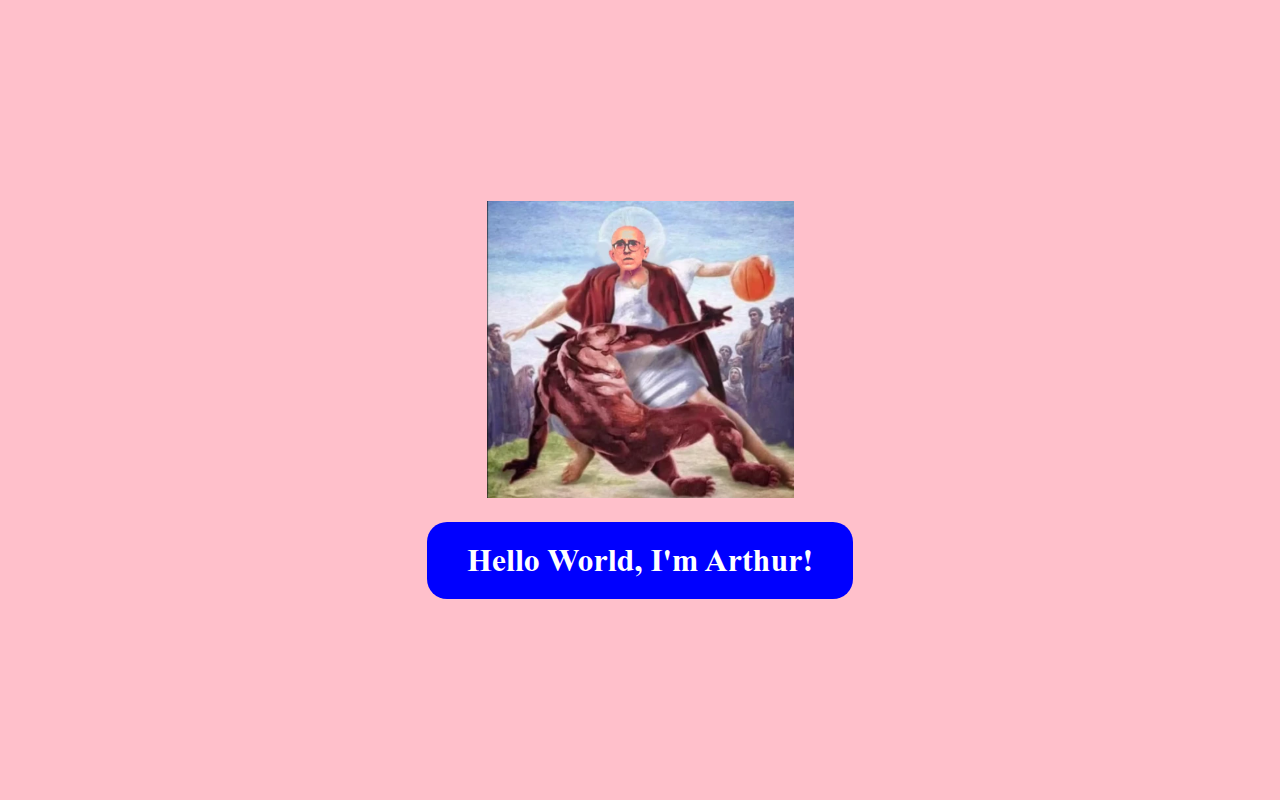
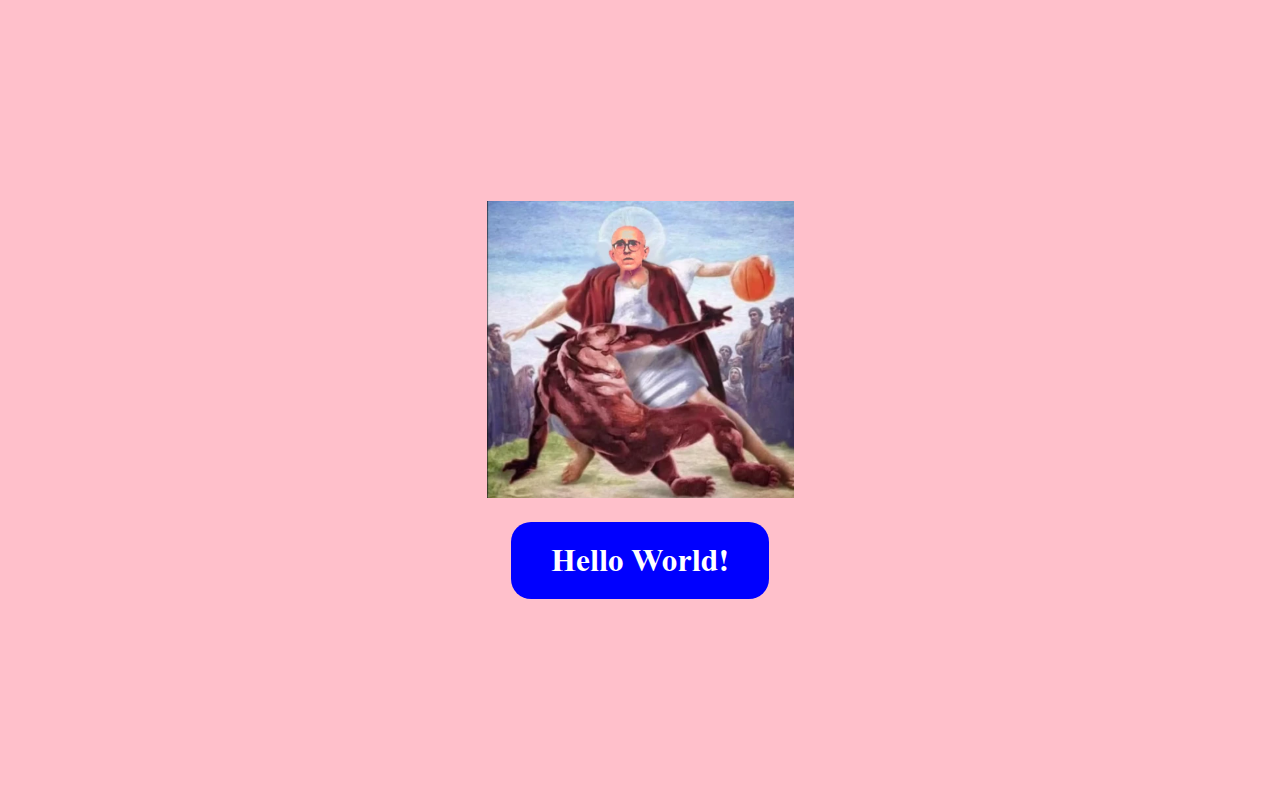
Alterações no arquivo README.md - matrícula: 911060

Changed region(s): [[0.3125, 0.625, 0.6875, 0.75]]

diff --git a/DIW/Aula02/index.html b/DIW/Aula02/index.html
@@ -3,12 +3,12 @@
 <head>
     <meta charset="UTF-8">
     <meta name="viewport" content="width=device-width, initial-scale=1.0">
-    <title>Hello World, I'm Arthur!</title>
+    <title>DIW</title>
     <link rel="stylesheet" href="index.css">
 </head>
 <body>
     <img id="imagem" src="Images/theldo.png" alt="Professor Theldo">
-    <div id="caixa1" onclick="abrir()" class="oi">Hello World, I'm Arthur!</div>
+    <div id="caixa1" onclick="abrir()" class="oi">Hello World!</div>
     <script src="index.js"></script>
 </body>
 </html>

diff --git a/DIW/Aula02/index.js b/DIW/Aula02/index.js
@@ -1,3 +1,3 @@
 function abrir(){
-    window.alert("Hello World, I'm Arthur!");
+    window.alert("Hello World!");
 }
